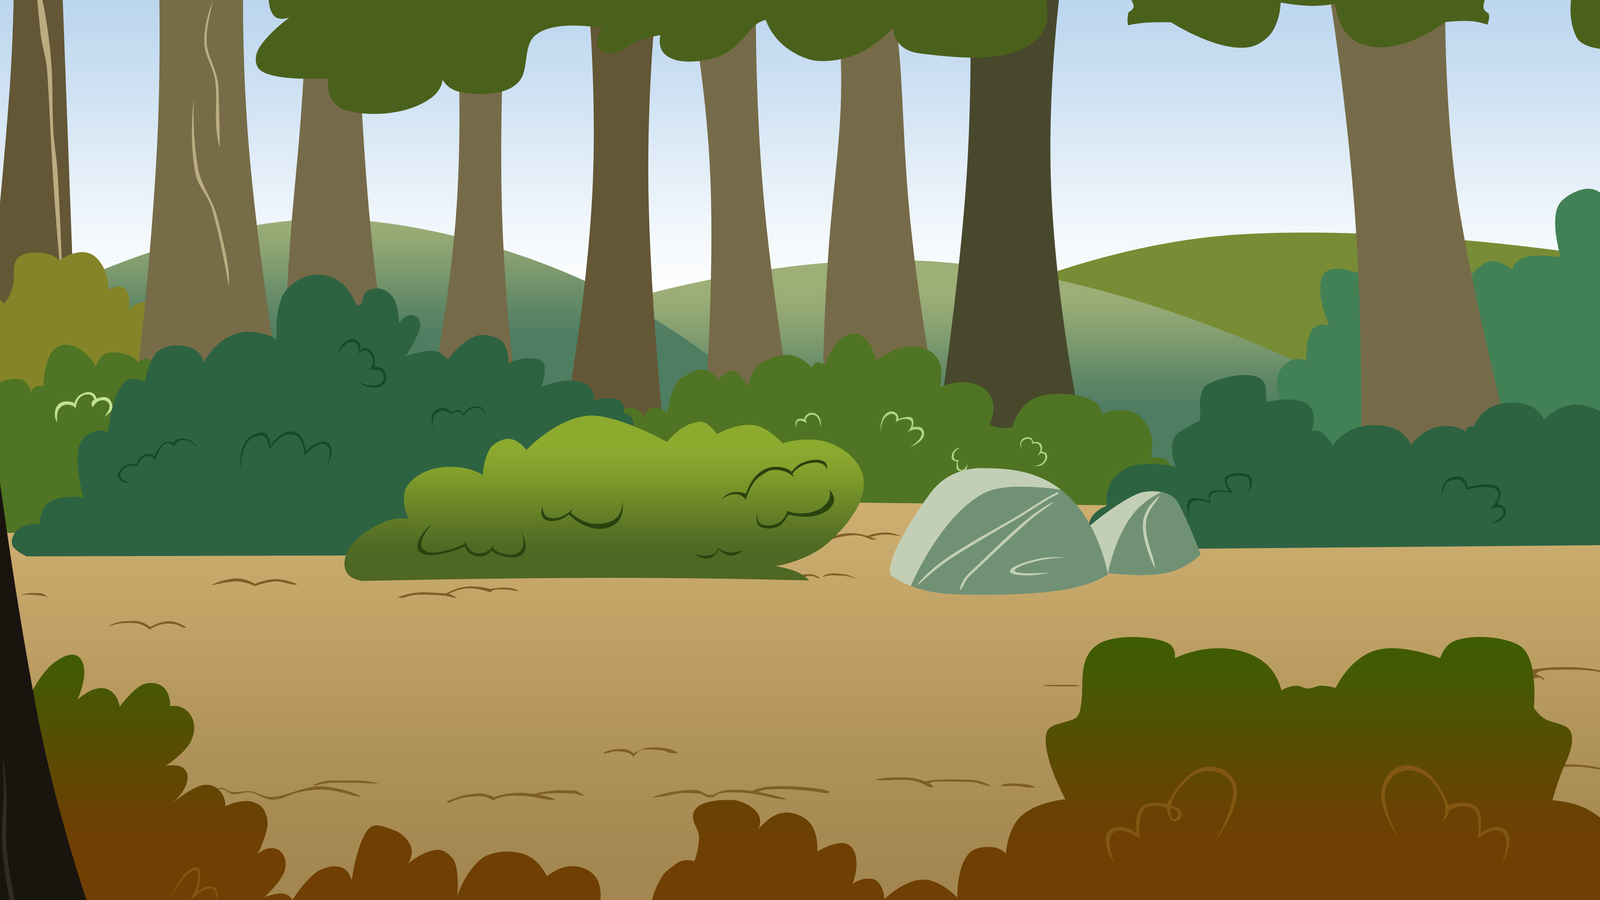
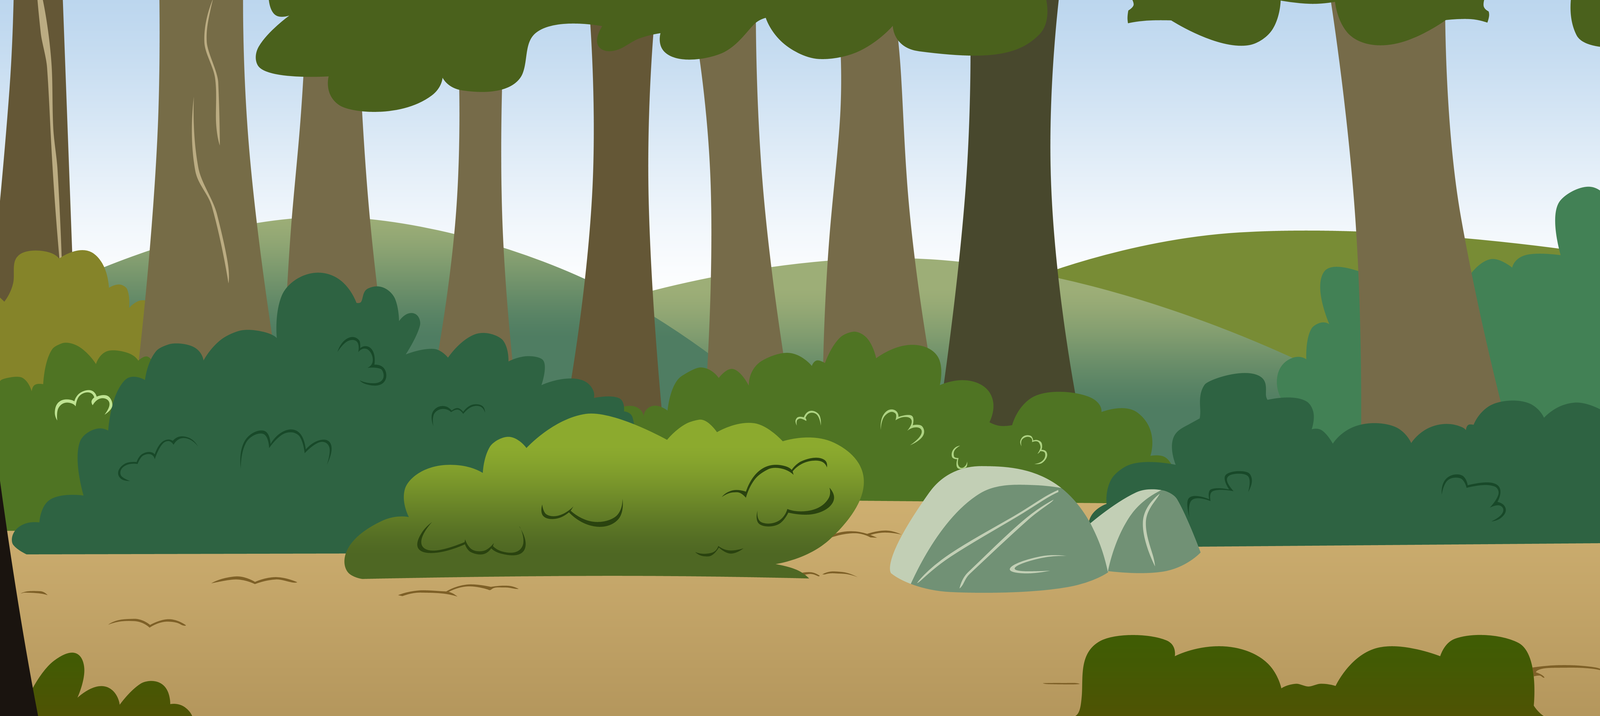
Modified Battle Background Image CSS 26/12/16 Gana

diff --git a/js/battle.js b/js/battle.js
@@ -170,7 +170,7 @@ createPlayerAvatarImage.setAttribute('id', 'player-avatar-idle');
 playerAvatarBox.appendChild(createPlayerAvatarImage);
 
 let playerAvatarIdle = document.getElementById('player-avatar-idle');
-playerAvatarIdle.src = "asset/img/character/gif/ninja_male_idle.gif";
+playerAvatarIdle.src = "asset/img/character/gif/ninja_male_idle.gif"
 
 
 // Create Zombie Avatar!
@@ -184,8 +184,35 @@ createMonsterAvatarImage.setAttribute('id', 'monster-avatar-image');
 monsterAvatarBox.appendChild(createMonsterAvatarImage);
 
 let monsterAvatarImage = document.getElementById('monster-avatar-image');
-monsterAvatarImage.src = "asset/img/character/gif/zombie_male_idle.gif";
 
+function zombieIdle() {
+    y = (y === zombieIdleImages.length - 1) ? 0 : y + 1;
+    monsterAvatarImage.src = zombieIdleImages[y];
+}
+
+let zombieIdleImages = [
+        "asset/img/character/zombie/male/Idle (1).png",
+        "asset/img/character/zombie/male/Idle (2).png",
+        "asset/img/character/zombie/male/Idle (3).png",
+        "asset/img/character/zombie/male/Idle (4).png",
+        "asset/img/character/zombie/male/Idle (5).png",
+        "asset/img/character/zombie/male/Idle (6).png",
+        "asset/img/character/zombie/male/Idle (7).png",
+        "asset/img/character/zombie/male/Idle (8).png",
+        "asset/img/character/zombie/male/Idle (9).png",
+        "asset/img/character/zombie/male/Idle (10).png",
+        "asset/img/character/zombie/male/Idle (11).png",
+        "asset/img/character/zombie/male/Idle (12).png",
+        "asset/img/character/zombie/male/Idle (13).png",
+        "asset/img/character/zombie/male/Idle (14).png",
+        "asset/img/character/zombie/male/Idle (15).png",
+    ],
+    y = -1;
+
+function startZombieIdle() {
+    setInterval(zombieIdle, 60);
+}
+startZombieIdle();
 
 // Create Player Hit Damage Box
 let createPlayerHitDamageBox = document.createElement('div');

diff --git a/css/battle.css b/css/battle.css
@@ -16,7 +16,7 @@ body {
 }
 
 .background-arena1 {
-    background: url('../asset/img/battle/background-arena1.png') no-repeat center 100%;
+    background: url('../asset/img/battle/background-arena1-edit.png') no-repeat center 100%;
     background-size: cover;
     height: 100%;
 }
@@ -217,8 +217,8 @@ body {
 
 .game-button {
     position: absolute;
-    width: 175px;
-    height: 150px;
+    width: 125px;
+    height: 110px;
     border-radius: 25%;
     background-color: rgba(167, 167, 167, 0.7);
     cursor: pointer;
